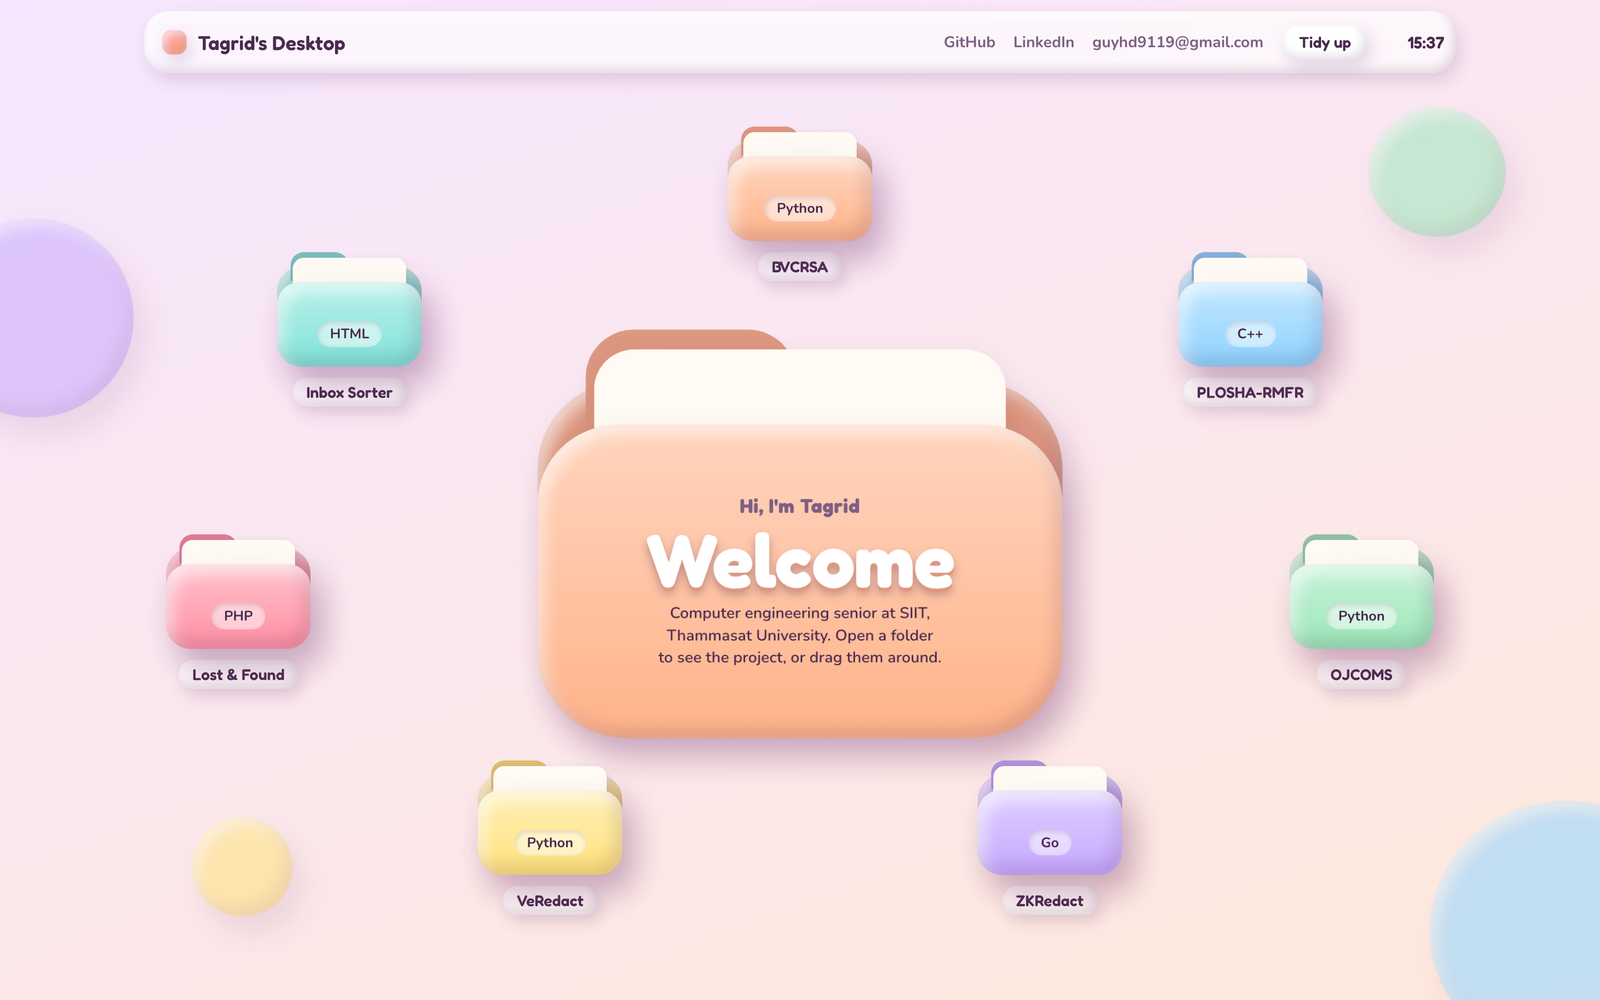
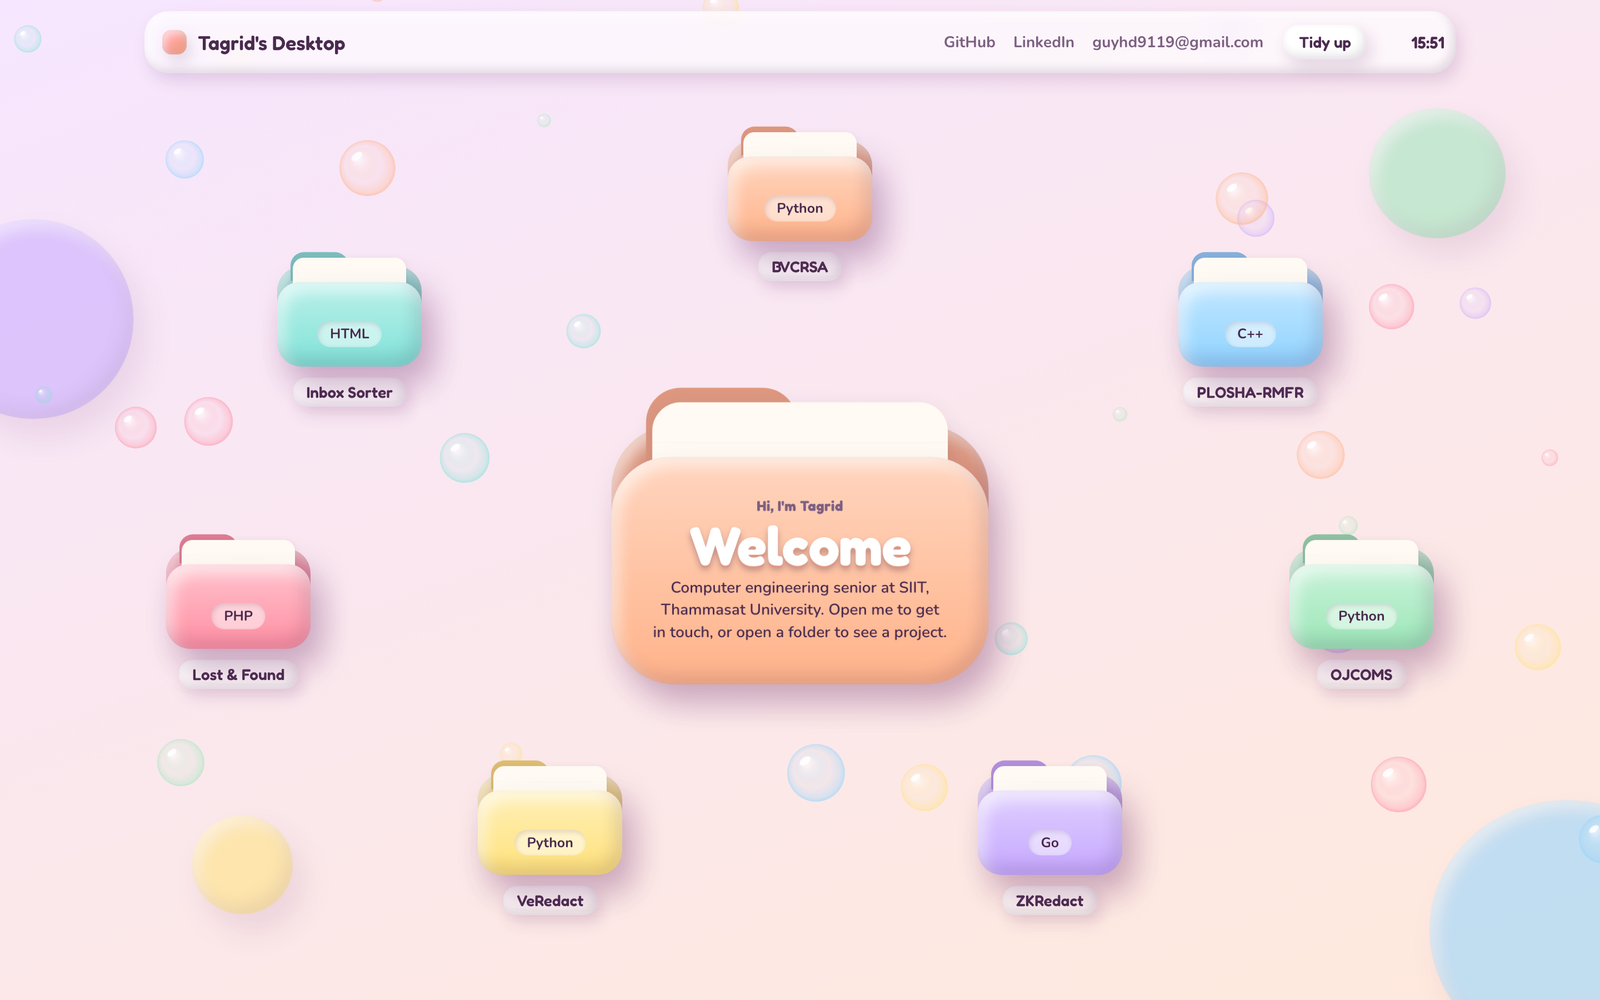
Add drifting soap bubbles that pop on touch
Pastel bubbles rise behind the folders on a canvas and burst into a ring
and droplets when the cursor or a finger meets them. They pause in a
hidden tab and hold still under reduced motion. Retake the README
desktop screenshot to show them and the smaller Welcome folder.

diff --git a/main.js b/main.js
@@ -454,5 +454,118 @@ function cleanReadme(html, r) {
   return [...doc.body.childNodes];
 }
 
+/* ---------- bubbles ------------------------------------------------------ */
+/* soap bubbles rise behind the folders and pop when the cursor touches them */
+const sky = $('#bubbles');
+const ctx = sky.getContext('2d');
+const TINTS = COLORS.map(h => [1, 3, 5].map(i => parseInt(h.slice(i, i + 2), 16)).join(','));
+const rand = (a, b) => a + Math.random() * (b - a);
+let skyW = 0, skyH = 0, bubbles = [], pops = [], skyRaf = 0, lastT = 0;
+const pointer = { x: -1e4, y: -1e4 };
+
+function spawn(anywhere) {
+  const r = rand(6, 26);
+  return {
+    r,
+    x: rand(0, skyW),
+    y: anywhere ? rand(0, skyH) : skyH + r + rand(0, skyH * 0.25),
+    vy: rand(16, 34) * (1.25 - r / 40),           // small bubbles rise faster
+    phase: rand(0, Math.PI * 2),
+    sway: rand(6, 22),
+    tint: TINTS[Math.floor(rand(0, TINTS.length))],
+  };
+}
+
+function sizeSky() {
+  const dpr = Math.min(devicePixelRatio || 1, 2);
+  skyW = innerWidth;
+  skyH = innerHeight;
+  sky.width = skyW * dpr;
+  sky.height = skyH * dpr;
+  ctx.setTransform(dpr, 0, 0, dpr, 0, 0);
+  const want = Math.round(Math.min(36, Math.max(12, (skyW * skyH) / 36000)));
+  while (bubbles.length < want) bubbles.push(spawn(true));
+  bubbles.length = want;
+}
+
+function drawBubble(x, y, r, tint) {
+  const film = ctx.createRadialGradient(x - r * 0.35, y - r * 0.35, r * 0.1, x, y, r);
+  film.addColorStop(0, 'rgba(255,255,255,.5)');
+  film.addColorStop(0.6, `rgba(${tint},.08)`);
+  film.addColorStop(0.9, `rgba(${tint},.32)`);
+  film.addColorStop(1, `rgba(${tint},.6)`);
+  ctx.fillStyle = film;
+  ctx.beginPath();
+  ctx.arc(x, y, r, 0, Math.PI * 2);
+  ctx.fill();
+  ctx.fillStyle = 'rgba(255,255,255,.85)';          // the window glint
+  ctx.beginPath();
+  ctx.ellipse(x - r * 0.38, y - r * 0.42, r * 0.22, r * 0.12, -0.6, 0, Math.PI * 2);
+  ctx.fill();
+}
+
+function drawPop(p) {
+  const k = p.t / 0.35;                              // 0 → 1 over the pop
+  ctx.strokeStyle = `rgba(${p.tint},${0.7 * (1 - k)})`;
+  ctx.lineWidth = 2;
+  ctx.beginPath();
+  ctx.arc(p.x, p.y, p.r * (1 + k * 0.8), 0, Math.PI * 2);
+  ctx.stroke();
+  ctx.fillStyle = `rgba(${p.tint},${0.8 * (1 - k)})`;
+  for (let i = 0; i < 6; i++) {                      // droplets flung outward
+    const a = (i / 6) * Math.PI * 2 + p.r;
+    const d = p.r * (1 + k * 1.6);
+    ctx.beginPath();
+    ctx.arc(p.x + Math.cos(a) * d, p.y + Math.sin(a) * d, 2, 0, Math.PI * 2);
+    ctx.fill();
+  }
+}
+
+function skyFrame(t) {
+  const dt = Math.min(0.05, (t - (lastT || t)) / 1000);
+  lastT = t;
+  ctx.clearRect(0, 0, skyW, skyH);
+  for (const b of bubbles) {
+    b.y -= b.vy * dt;
+    b.phase += dt * 1.3;
+    const x = b.x + Math.sin(b.phase) * b.sway;
+    if (b.y < -b.r * 2) Object.assign(b, spawn(false));
+    else if (Math.hypot(pointer.x - x, pointer.y - b.y) < b.r + 4) {
+      pops.push({ x, y: b.y, r: b.r, tint: b.tint, t: 0 });
+      Object.assign(b, spawn(false));
+    } else drawBubble(x, b.y, b.r, b.tint);
+  }
+  pops = pops.filter(p => (p.t += dt) < 0.35);
+  pops.forEach(drawPop);
+  skyRaf = requestAnimationFrame(skyFrame);
+}
+
+function startSky() {
+  cancelAnimationFrame(skyRaf);
+  skyRaf = 0;
+  lastT = 0;
+  if (still.matches) {                               // reduced motion: a still scatter
+    ctx.clearRect(0, 0, skyW, skyH);
+    bubbles.forEach(b => drawBubble(b.x, b.y, b.r, b.tint));
+    return;
+  }
+  if (!document.hidden) skyRaf = requestAnimationFrame(skyFrame);
+}
+
+addEventListener('pointermove', e => {
+  if (e.pointerType === 'mouse') { pointer.x = e.clientX; pointer.y = e.clientY; }
+}, { passive: true });
+addEventListener('pointerdown', e => { pointer.x = e.clientX; pointer.y = e.clientY; }, { passive: true });
+addEventListener('pointerup', e => {
+  if (e.pointerType !== 'mouse') pointer.x = pointer.y = -1e4;   // a finger lifts away
+}, { passive: true });
+document.documentElement.addEventListener('pointerleave', () => { pointer.x = pointer.y = -1e4; });
+
+addEventListener('resize', () => { sizeSky(); startSky(); });
+document.addEventListener('visibilitychange', startSky);
+still.addEventListener('change', startSky);
+
 /* ---------- go ---------------------------------------------------------- */
+sizeSky();
+startSky();
 loadProjects();

diff --git a/style.css b/style.css
@@ -68,6 +68,15 @@ body {
 .b3 { width: 240px; height: 240px; right: -90px; bottom: -70px; background: #8fd3ff; animation-delay: -7s; }
 .b4 { width: 90px; height: 90px; left: 12%; bottom: 8%; background: #ffe27a; animation-delay: -10s; }
 
+/* soap bubbles drifting up behind the folders; drawn by main.js */
+#bubbles {
+  position: fixed;
+  inset: 0;
+  width: 100%; height: 100%;
+  z-index: 0;
+  pointer-events: none;
+}
+
 @keyframes bob {
   0%, 100% { transform: translateY(0) scale(1, 1); }
   50%      { transform: translateY(-14px) scale(1.03, .97); }

diff --git a/index.html b/index.html
@@ -17,6 +17,7 @@
 <div id="blobs" aria-hidden="true">
   <span class="blob b1"></span><span class="blob b2"></span><span class="blob b3"></span><span class="blob b4"></span>
 </div>
+<canvas id="bubbles" aria-hidden="true"></canvas>
 
 <header id="bar">
   <p id="brand"><span class="logo" aria-hidden="true"></span>Tagrid's Desktop</p>

diff --git a/SITE.md b/SITE.md
@@ -27,6 +27,11 @@ small icons and the big Welcome. The clay look is one shadow recipe, `--clay`: a
 light inner highlight top-left, a darker inner shade bottom-right and a soft drop.
 Light theme only.
 
+Soap bubbles drift up behind the folders on a `<canvas>` (`#bubbles`), each tinted
+from `COLORS`, and pop with a ring and droplets when the cursor or a finger touches
+one. Up to 36 at once, scaled to the screen; drawing pauses in a hidden tab and
+becomes a still scatter under `prefers-reduced-motion`.
+
 ## Where the content comes from
 
 **Folders — live from GitHub.** `main.js` fetches
